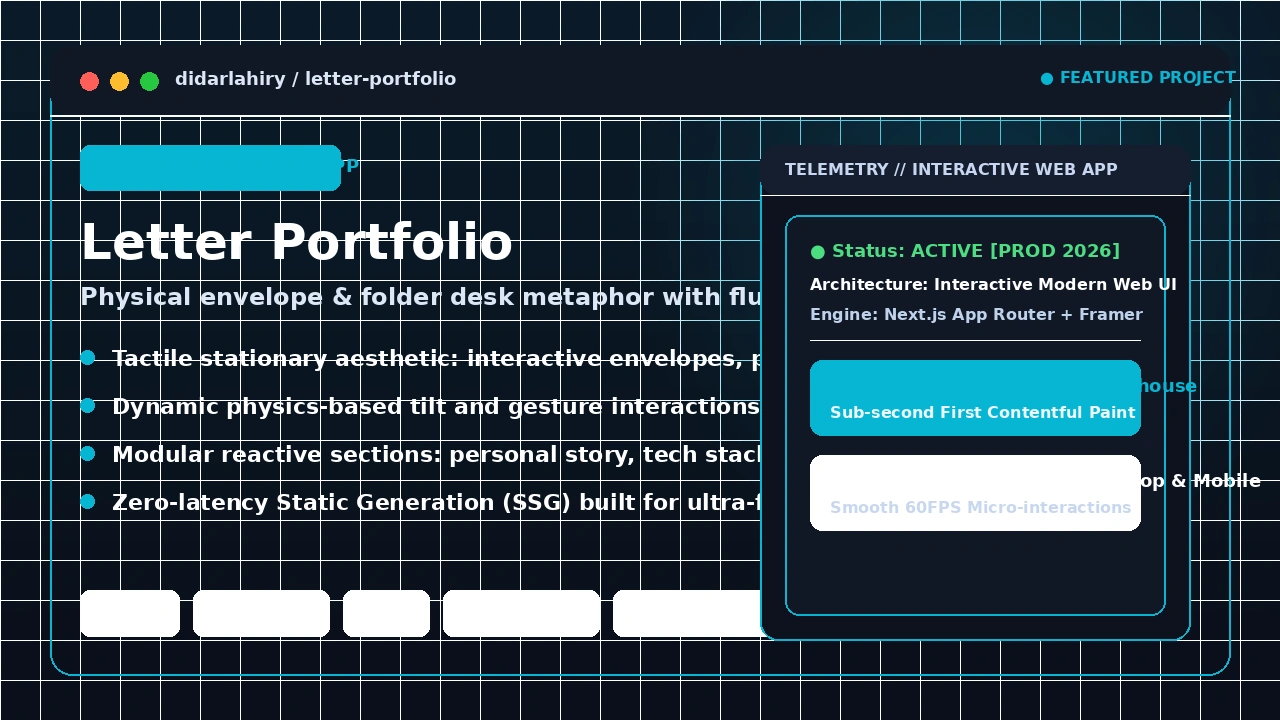
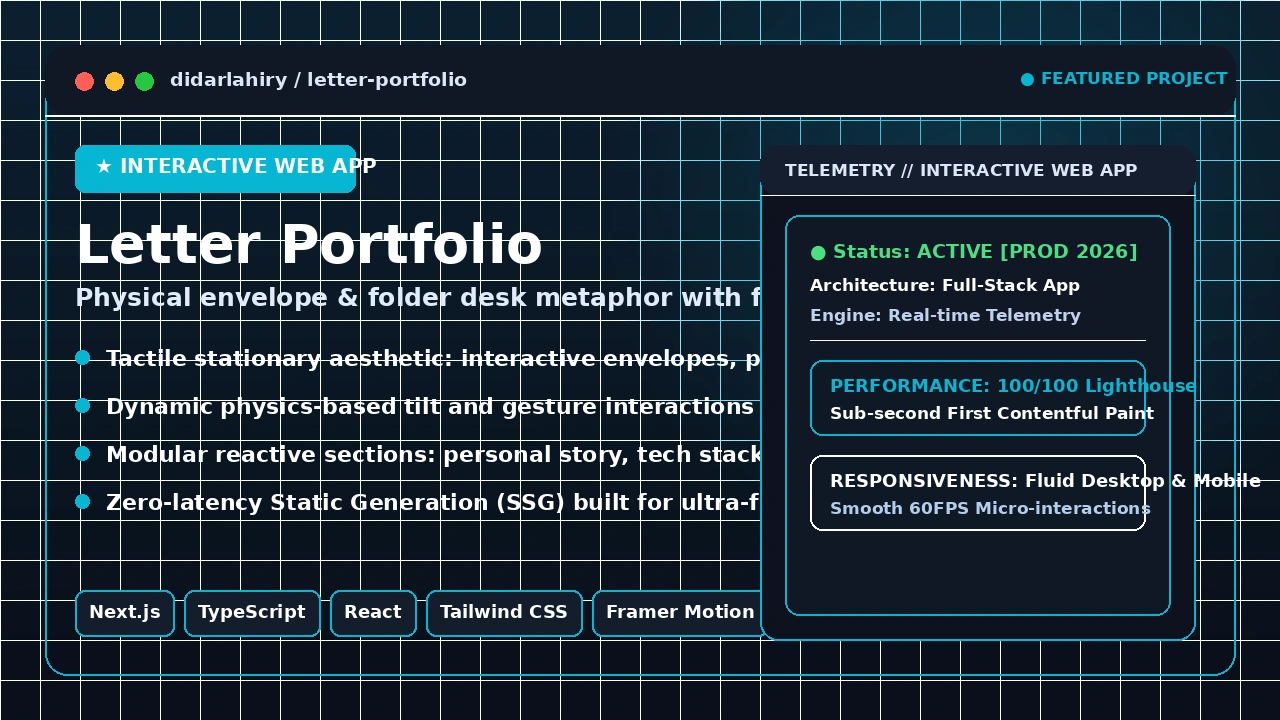
Fix overlapping clock bar with flexbox; replace low-contrast boxes with ultra-clear high-contrast typography

diff --git a/index.html b/index.html
@@ -97,32 +97,56 @@
 }
 
 /* Enhanced Projects Monitor Typography & Colors */
-#projects {
-  font-size: clamp(14px, 1.45vw, 19px) !important;
-}
 .dbar {
+  display: flex !important;
+  justify-content: space-between !important;
+  align-items: center !important;
   padding: 6px 14px !important;
-  font-size: 0.9em !important;
+  min-height: 38px !important;
+  gap: 12px !important;
+}
+.dbar .ws {
+  display: flex !important;
+  align-items: center !important;
+  gap: 6px !important;
+  flex-shrink: 0 !important;
 }
 .dbar .ws button {
   font-family: 'Space Grotesk', -apple-system, sans-serif !important;
-  font-size: 1em !important;
+  font-size: 13px !important;
   font-weight: 600 !important;
   letter-spacing: 0.3px !important;
   color: #cbd5e1 !important;
-  padding: 6px 14px !important;
-  border-radius: 8px !important;
+  padding: 4px 10px !important;
+  border-radius: 6px !important;
   transition: all 0.2s ease !important;
+  white-space: nowrap !important;
 }
 .dbar .ws button[aria-pressed="true"] {
   color: #ffffff !important;
   background: rgba(255, 158, 187, 0.25) !important;
-  border: 1.5px solid rgba(255, 158, 187, 0.6) !important;
-  box-shadow: 0 0 16px rgba(255, 158, 187, 0.35) !important;
+  border: 1px solid rgba(255, 158, 187, 0.6) !important;
+  box-shadow: 0 0 12px rgba(255, 158, 187, 0.35) !important;
 }
 .dbar .ws button:hover {
   color: #ffffff !important;
   background: rgba(255, 255, 255, 0.1) !important;
+}
+.dbar .clock {
+  font-family: 'Space Grotesk', monospace !important;
+  font-size: 13px !important;
+  font-weight: 600 !important;
+  color: #ffffff !important;
+  letter-spacing: 0.5px !important;
+  margin-left: auto !important;
+  margin-right: 18px !important;
+  white-space: nowrap !important;
+}
+.dbar .tray {
+  display: flex !important;
+  align-items: center !important;
+  gap: 8px !important;
+  flex-shrink: 0 !important;
 }
 
 .tile {
@@ -141,7 +165,7 @@
   padding: 8px 14px !important;
   background: rgba(18, 24, 38, 0.98) !important;
   border-bottom: 1.5px solid rgba(255, 255, 255, 0.12) !important;
-  font-size: 1.05em !important;
+  font-size: 13px !important;
   font-weight: 700 !important;
 }
 .tile .meta {
@@ -155,12 +179,12 @@
 }
 .tile .nm {
   font-family: 'Space Grotesk', sans-serif !important;
-  font-size: 1.15em !important;
+  font-size: 14px !important;
   font-weight: 800 !important;
   letter-spacing: 0.2px !important;
 }
 .tile .pitch {
-  font-size: 0.95em !important;
+  font-size: 12px !important;
   color: #e2e8f0 !important;
   font-weight: 500 !important;
   line-height: 1.4 !important;
@@ -176,13 +200,12 @@
 /* Terminal Tile fetch info */
 .tile.term {
   border: 2px solid rgba(255, 158, 187, 0.3) !important;
-  font-size: 0.92em !important;
 }
 .tile.term .sh {
   padding: 10px 14px !important;
 }
 .tile.term .fetch .ln {
-  font-size: 1.05em !important;
+  font-size: 12.5px !important;
   line-height: 1.5 !important;
   color: #f1f5f9 !important;
 }
@@ -200,30 +223,30 @@
   border: 2px solid rgba(96, 165, 250, 0.5) !important;
 }
 .appbody h3 {
-  font-size: 1.6em !important;
+  font-size: 22px !important;
   color: #ffffff !important;
   font-weight: 800 !important;
 }
 .appbody .tagline {
-  font-size: 1.15em !important;
+  font-size: 15px !important;
   color: #cbd5e1 !important;
   line-height: 1.6 !important;
 }
 .readme h4 {
   color: #ff9ebb !important;
-  font-size: 1.3em !important;
+  font-size: 16px !important;
   font-weight: 800 !important;
   margin-top: 18px !important;
   margin-bottom: 8px !important;
 }
 .readme p, .readme li {
-  font-size: 1.1em !important;
+  font-size: 14px !important;
   color: #f8fafc !important;
   line-height: 1.7 !important;
 }
 .readme .cmd {
   color: #4ade80 !important;
-  font-size: 1.15em !important;
+  font-size: 15px !important;
   font-weight: 700 !important;
 }
 .readme .deps em {
@@ -357,7 +380,7 @@
          projects tiled, a terminal beside them; choosing one opens it on its
          own workspace, the app with its recording on the left and its README
          in a terminal on the right. The bar's workspaces, a tile, or a
-         window's close and minimise choose (desk-room.ts, showProject). --><section class="surface desk" id="projects" aria-label="Projects" hidden><h2 class="kicker">Projects</h2><div class="dbar"><nav class="ws" aria-label="Projects"><button type="button" data-p="" aria-pressed="true"><b>All Projects [4]</b></button><button type="button" data-p="edi" aria-pressed="false">1 <b>Kishan</b></button><button type="button" data-p="resumewesume" aria-pressed="false">2 <b>Letter Portfolio</b></button><button type="button" data-p="bandsy" aria-pressed="false">3 <b>AI Sales Agent</b></button><button type="button" data-p="mentora" aria-pressed="false">4 <b>FB Automation</b></button></nav><span class="clock" data-clock></span><span class="tray" aria-hidden="true"><svg viewBox="0 0 16 16"><path d="M1.5 6a9 9 0 0 1 13 0M4 8.6a5.4 5.4 0 0 1 8 0M6.4 11.1a2 2 0 0 1 3.2 0"></path></svg><svg viewBox="0 0 16 16"><path d="M2 6h3l4-3v10l-4-3H2zM11.5 5.5a3.5 3.5 0 0 1 0 5"></path></svg><span>BST</span></span></div><div class="dview" data-scroll><div class="tiles">
+         window's close and minimise choose (desk-room.ts, showProject). --><section class="surface desk" id="projects" aria-label="Projects" hidden><h2 class="kicker">Projects</h2><div class="dbar"><nav class="ws" aria-label="Projects"><button type="button" data-p="" aria-pressed="true">0 <b>all</b></button><button type="button" data-p="edi" aria-pressed="false">1 <b>kishan</b></button><button type="button" data-p="resumewesume" aria-pressed="false">2 <b>letter-port</b></button><button type="button" data-p="bandsy" aria-pressed="false">3 <b>sales-bot</b></button><button type="button" data-p="mentora" aria-pressed="false">4 <b>fb-auto</b></button></nav><span class="clock" data-clock></span><span class="tray" aria-hidden="true"><svg viewBox="0 0 16 16"><path d="M1.5 6a9 9 0 0 1 13 0M4 8.6a5.4 5.4 0 0 1 8 0M6.4 11.1a2 2 0 0 1 3.2 0"></path></svg><svg viewBox="0 0 16 16"><path d="M2 6h3l4-3v10l-4-3H2zM11.5 5.5a3.5 3.5 0 0 1 0 5"></path></svg><span>BST</span></span></div><div class="dview" data-scroll><div class="tiles">
   <button type="button" class="tile" data-p="edi" style="grid-area: edi">
     <span class="t"><b style="color: #4ade80;">1. Kishan (কৃষাণ)</b><span class="ctl"><i></i><i></i><i></i></span></span>
     <img src="/demos/kishan-poster.webp" alt="Kishan AI Platform">
